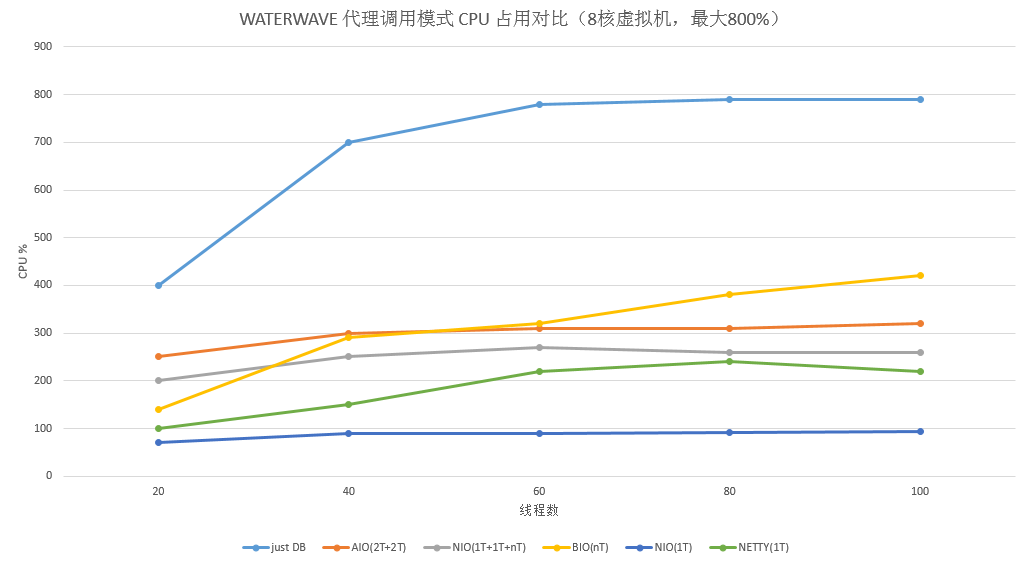
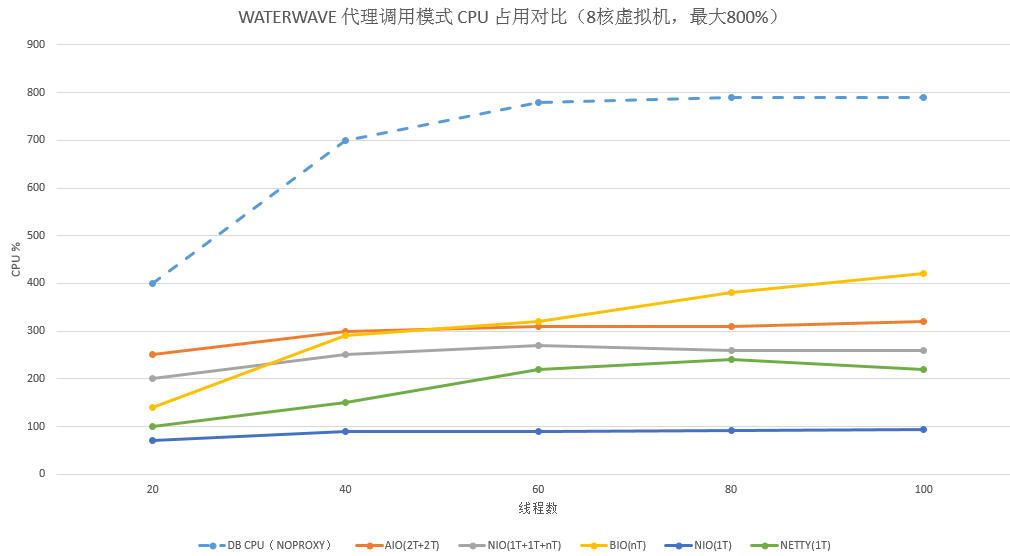
README

diff --git a/README.md b/README.md
@@ -2,32 +2,41 @@
 
 ## first test:
 
->VM: 
->Xeon E312xx 2.4Ghz  X 8
-16GB RAM
+#### ENV
+>VM: Xeon E312xx 2.4Ghz X 8 16GB RAM
+>MYSQL 5.7.17
+>JAVA 1.8.74
+>NET VM NETWORK, SAME SEGMENT
+
+#### DESC
+>AIO: 2 thread for server R/W handler, 2 thread for client R/W handler 
+>NIO: 1 thread for server R/W handler, 1 thread for client R/W handler, nT hread for work handler
+>BIO: n thread for server R/W client R/W and work handler
+>NIO(1t): 1 thread for server R/W client R/W and work handler
+>NETTY(1t): 1 thread for server R/W client R/W and work handler
 
 
 
 
 #### THREADS QPS					
 
-| T   	| just DB 	| AIO(2T+2T) 	| NIO(1T+1T+nT) 	| BIO(nT) 	| NIO(1T) 	| NETTY(1T) 	|
-|-----	|---------	|------------	|---------------	|---------	|---------	|-----------	|
-| 20  	| 50      	| 30         	| 15            	| 32      	| 35      	| 30        	|
-| 40  	| 90      	| 52         	| 18            	| 50      	| 59      	| 46        	|
-| 60  	| 100     	| 62         	| 21            	| 65      	| 63      	| 60        	|
-| 80  	| 105     	| 62         	| 19            	| 68      	| 72      	| 67        	|
-| 100 	| 105     	| 68         	| 19            	| 72      	| 74      	| 74        	|					
+| T   	| DB QPS（NOPROXY）	| AIO(2T+2T) 	| NIO(1T+1T+nT) 	| BIO(nT) 	| NIO(1T) 	| NETTY(1T) 	|
+|-----	|---------			|------------	|---------------	|---------	|---------	|-----------	|
+| 20  	| 50      			| 30         	| 15            	| 32      	| 35      	| 30        	|
+| 40  	| 90      			| 52         	| 18            	| 50      	| 59      	| 46        	|
+| 60  	| 100     			| 62         	| 21            	| 65      	| 63      	| 60        	|
+| 80  	| 105     			| 62         	| 19            	| 68      	| 72      	| 67        	|
+| 100 	| 105     			| 68         	| 19            	| 72      	| 74      	| 74        	|					
 						
 #### THREADS CPU USING						
 
-| T   	| just DB 	| AIO(2T+2T) 	| NIO(1T+1T+nT) 	| BIO(nT) 	| NIO(1T) 	| NETTY(1T) 	|
-|-----	|---------	|------------	|---------------	|---------	|---------	|-----------	|
-| 20  	| 400     	| 250        	| 200           	| 140     	| 70      	| 100       	|
-| 40  	| 700     	| 300        	| 250           	| 290     	| 89      	| 150       	|
-| 60  	| 780     	| 310        	| 270           	| 320     	| 90      	| 220       	|
-| 80  	| 790     	| 310        	| 260           	| 380     	| 92      	| 240       	|
-| 100 	| 790     	| 320        	| 260           	| 420     	| 93      	| 220       	|
+| T   	| DB CPU（NOPROXY）	| AIO(2T+2T) 	| NIO(1T+1T+nT) 	| BIO(nT) 	| NIO(1T) 	| NETTY(1T) 	|
+|-----	|---------			|------------	|---------------	|---------	|---------	|-----------	|
+| 20  	| 400     			| 250        	| 200           	| 140     	| 70      	| 100       	|
+| 40  	| 700     			| 300        	| 250           	| 290     	| 89      	| 150       	|
+| 60  	| 780     			| 310        	| 270           	| 320     	| 90      	| 220       	|
+| 80  	| 790     			| 310        	| 260           	| 380     	| 92      	| 240       	|
+| 100 	| 790     			| 320        	| 260           	| 420     	| 93      	| 220       	|
 
 
 #### THREADS QPS
